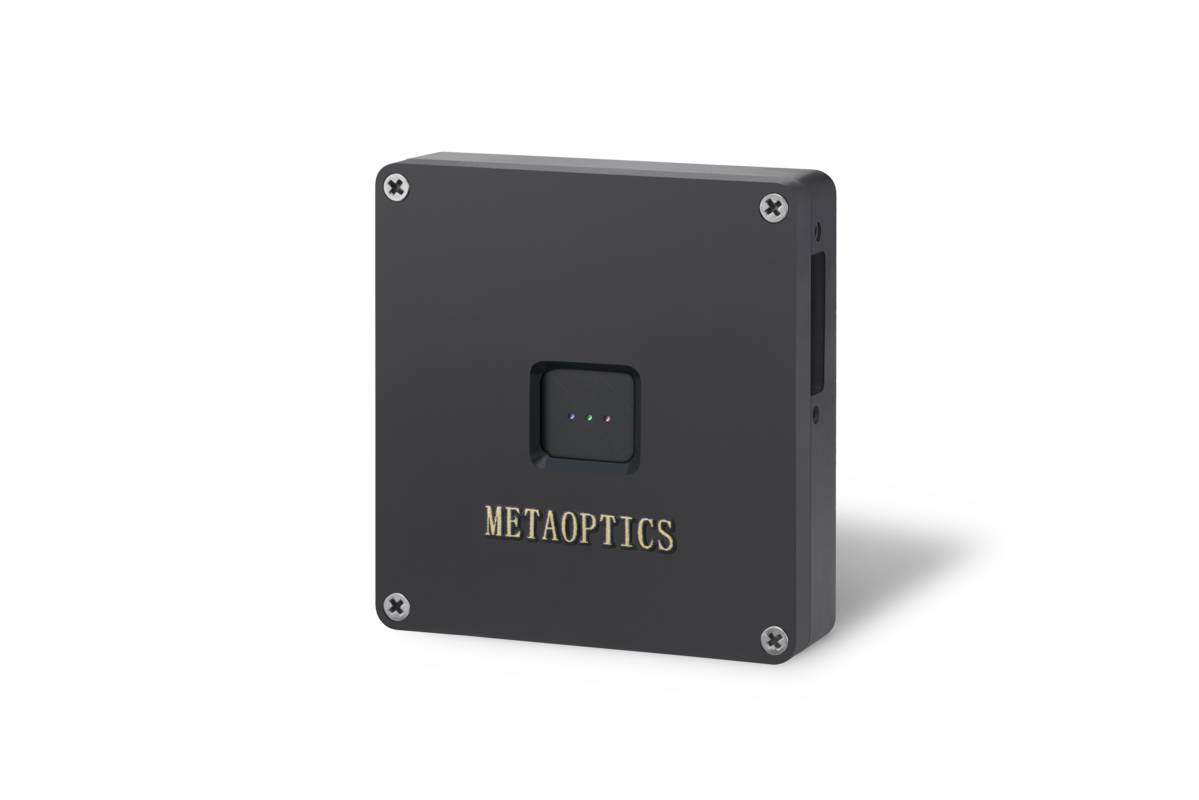
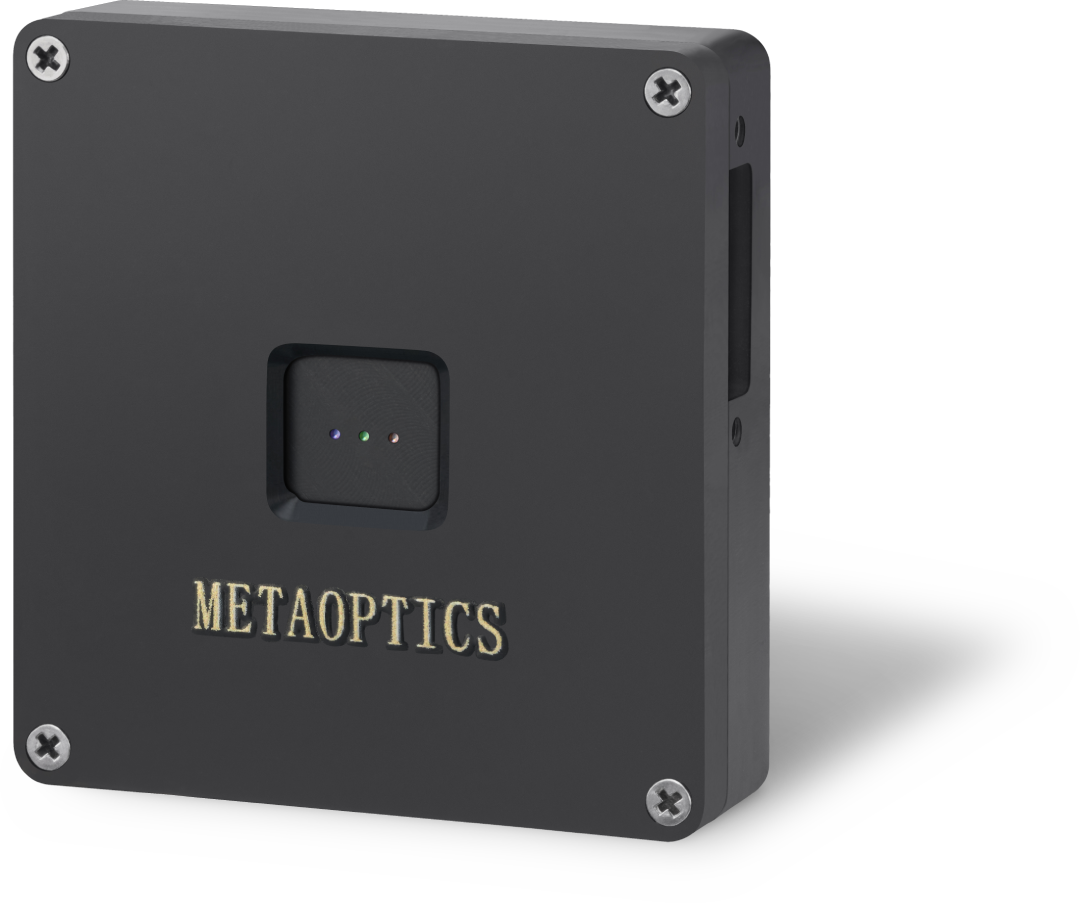
Implement redirects and update product details for IoT Metalens Color Camera
- Added 301 redirects in .htaccess and Next.js configuration to redirect legacy product URLs to new slugs.
- Updated product details and slugs in data.json and various components to reflect the new naming convention for the IoT Rectangular Metalens Color Camera.
- Introduced a new page for development kits and adjusted product grid to include updated hrefs for navigation.
- Enhanced product metadata generation to accommodate the new slug structure.

diff --git a/src/app/verticals/metalens-products/development-kits/[slug]/page.js b/src/app/verticals/metalens-products/development-kits/[slug]/page.js
@@ -1,0 +1,42 @@
+import data from "@/constants/data.json";
+import ProductDetailsClientSide from "@/layouts/product-details/ProductDetailsClientSide";
+
+const developmentKitsSlugs = [
+  "iot-rectangular-metalens-color-camera",
+  "3d-biometrics-metalens-sensor",
+];
+
+export const generateStaticParams = async () => {
+  return developmentKitsSlugs.map((slug) => ({
+    slug,
+  }));
+};
+
+export const generateMetadata = async (props) => {
+  const params = await props.params;
+  const product = data.products.find((item) => item.slug === params.slug);
+  return {
+    title: product?.name,
+    description: product?.details?.description,
+  };
+};
+
+const ProductDetailsPage = async (props) => {
+  const params = await props.params;
+  const product = data.products.find((item) => item.slug === params.slug);
+
+  if (!product) {
+    return (
+      <div className="flex flex-col items-center justify-center min-h-screen">
+        <h1 className="text-4xl font-semibold text-red-500">
+          Product Not Found
+        </h1>
+      </div>
+    );
+  }
+
+  return <ProductDetailsClientSide />;
+};
+
+export default ProductDetailsPage;
+

diff --git a/src/app/verticals/metalens-foundry/[slug]/page.js b/src/app/verticals/metalens-foundry/[slug]/page.js
@@ -1,16 +1,21 @@
 import data from '@/constants/data.json';
 import ProductDetailsClientSide from '@/layouts/product-details/ProductDetailsClientSide';
 import { foundrySlugs } from '@/utils/product';
+import { redirect } from 'next/navigation';
+
+const LEGACY_IOT_CAMERA_SLUG = 'iot-metalens-color-camera';
+const RECTANGULAR_IOT_CAMERA_SLUG = 'iot-rectangular-metalens-color-camera';
 
 export const generateStaticParams = async () => {
-    return foundrySlugs.map((slug) => ({
+    return [...foundrySlugs, LEGACY_IOT_CAMERA_SLUG].map((slug) => ({
         slug,
     }));
 };
 
 export const generateMetadata = async (props) => {
     const params = await props.params;
-    const product = data.products.find((item) => item.slug === params.slug);
+    const slug = params.slug === LEGACY_IOT_CAMERA_SLUG ? RECTANGULAR_IOT_CAMERA_SLUG : params.slug;
+    const product = data.products.find((item) => item.slug === slug);
     return {
         title: product?.name,
         description: product?.details?.description,
@@ -19,6 +24,12 @@ export const generateMetadata = async (props) => {
 
 const ProductDetailsPage = async (props) => {
     const params = await props.params;
+    if (params.slug === LEGACY_IOT_CAMERA_SLUG) {
+        redirect(
+            `/verticals/metalens-products/development-kits/${RECTANGULAR_IOT_CAMERA_SLUG}`
+        );
+    }
+
     const product = data.products.find((item) => item.slug === params.slug);
 
     if (!product) {

diff --git a/next.config.js b/next.config.js
@@ -14,6 +14,16 @@ const nextConfig = {
     domains: ['images.unsplash.com'],
     unoptimized: true,  // This will generate static image files instead of using /_next/image
   },
+  async redirects() {
+    return [
+      {
+        source: '/verticals/metalens-foundry/iot-metalens-color-camera',
+        destination:
+          '/verticals/metalens-products/development-kits/iot-rectangular-metalens-color-camera',
+        permanent: true,
+      },
+    ];
+  },
 };
 
 module.exports = withMDX(nextConfig); 

diff --git a/src/utils/product.js b/src/utils/product.js
@@ -7,9 +7,12 @@ export const foundrySlugs = [
   'color-imaging-meta-lens',
   'ultra-wide-fov-ir-metalens',
   'ultra-wide-fov-metalens-monochromatic-ir-camera',
-  '3d-biometrics-metalens-sensor',
-  'iot-metalens-color-camera',
   'metalens-color-camera-module',
+];
+
+export const developmentKitsSlugs = [
+  'iot-rectangular-metalens-color-camera',
+  '3d-biometrics-metalens-sensor',
 ];
 export const productSlugs = [
   'metalens-5g-smartphone',
@@ -28,6 +31,9 @@ export const staticPages = [
 export const getProductPath = (slug) => {
   if (equipmentSlugs.includes(slug)) {
     return `/verticals/metalens-capital-equipment/${slug}`;
+  }
+  if (developmentKitsSlugs.includes(slug)) {
+    return `/verticals/metalens-products/development-kits/${slug}`;
   }
   if (foundrySlugs.includes(slug)) {
     return `/verticals/metalens-foundry/${slug}`;

diff --git a/src/app/verticals/metalens-products/development-kits/page.js b/src/app/verticals/metalens-products/development-kits/page.js
@@ -8,14 +8,17 @@ import ProductGrid from "@/components/ProductGrid";
 
 const products = [
   {
-    name: "IoT Metalens Color Camera",
-    slug: "iot-metalens-color-camera",
-    image: "/products/product-3.png",
+    name: "IoT Rectangular Metalens Color Camera",
+    slug: "iot-rectangular-metalens-color-camera",
+    href:
+      "/verticals/metalens-products/development-kits/iot-rectangular-metalens-color-camera",
+    image: "/products/iot-metalens-color-camera.png",
     imageClassName: "xl:scale-[50%]",
   },
   {
     name: "3D Biometrics Metalens Sensor",
     slug: "3d-biometrics-metalens-sensor",
+    href: "/verticals/metalens-products/development-kits/3d-biometrics-metalens-sensor",
     image: "/products/product-1.png",
     imageClassName: "xl:scale-[60%]",
   },

diff --git a/src/components/BaseProduct/index.js b/src/components/BaseProduct/index.js
@@ -12,6 +12,7 @@ const BaseProduct = ({
   name,
   image,
   slug,
+  href,
   className = "",
   imageClassName = "",
 }) => {
@@ -51,7 +52,7 @@ const BaseProduct = ({
   };
 
   return (
-    <Link href={getProductPath(slug)} className="block">
+    <Link href={href || getProductPath(slug)} className="block">
       <div
         ref={productRef}
         className={clsx(
@@ -86,6 +87,7 @@ BaseProduct.propTypes = {
   name: PropTypes.string.isRequired,
   image: PropTypes.string.isRequired,
   slug: PropTypes.string.isRequired,
+  href: PropTypes.string,
 };
 
 export default BaseProduct;

diff --git a/src/layouts/homepage/products/index.js b/src/layouts/homepage/products/index.js
@@ -13,13 +13,13 @@ import { isMobile } from 'react-device-detect';
 const products = [
     {
         id: '01',
-        title: 'IoT Metalens Color Camera',
+        title: 'IoT Rectangular Metalens Color Camera',
         category: 'Metalens IoT Product',
         description:
             'Leading edge camera to capture a color image using meta lens. 12" Glass Wafer DUV Immersion Photolithography Manufacturing Process. Customized for color imaging or non-contact fingerprint sensing. Inclusive of advanced software with AI image enhancement functions. Camera assembly process is tunable to fit applications.',
         image: 'landing-product-1.png',
         objectPosition: 'left',
-        slug: 'iot-metalens-color-camera',
+        slug: 'iot-rectangular-metalens-color-camera',
     },
     {
         id: '02',

diff --git a/src/layouts/product-details/specifications/index.js b/src/layouts/product-details/specifications/index.js
@@ -170,7 +170,7 @@ const ProductDetailsSpecifications = ({
                             }`}>
                             <ul className='mt-0 space-y-2 text-center text-white/90'>
                                 {Object.entries(specs).map(([key, value]) => (
-                                    <li key={key} className='capitalize'>
+                                    <li key={key} >
                                         {key === 'list-line' ? (
                                             <div className='space-y-3'>
                                                 {renderListLine(value)}
@@ -178,7 +178,7 @@ const ProductDetailsSpecifications = ({
                                         ) : (
                                             <>
                                                 {key !== 'list' && (
-                                                    <strong>
+                                                    <strong className='capitalize'>
                                                         {formatKey(key)}:{' '}
                                                     </strong>
                                                 )}

diff --git a/src/components/ProductGrid/index.js b/src/components/ProductGrid/index.js
@@ -16,6 +16,7 @@ const ProductGrid = ({ products = [] }) => {
               name={product.name}
               image={product.image}
               slug={product.slug}
+                href={product.href}
               imageClassName={product?.imageClassName || ""}
               className="xl:h-[370px] h-auto"
             />